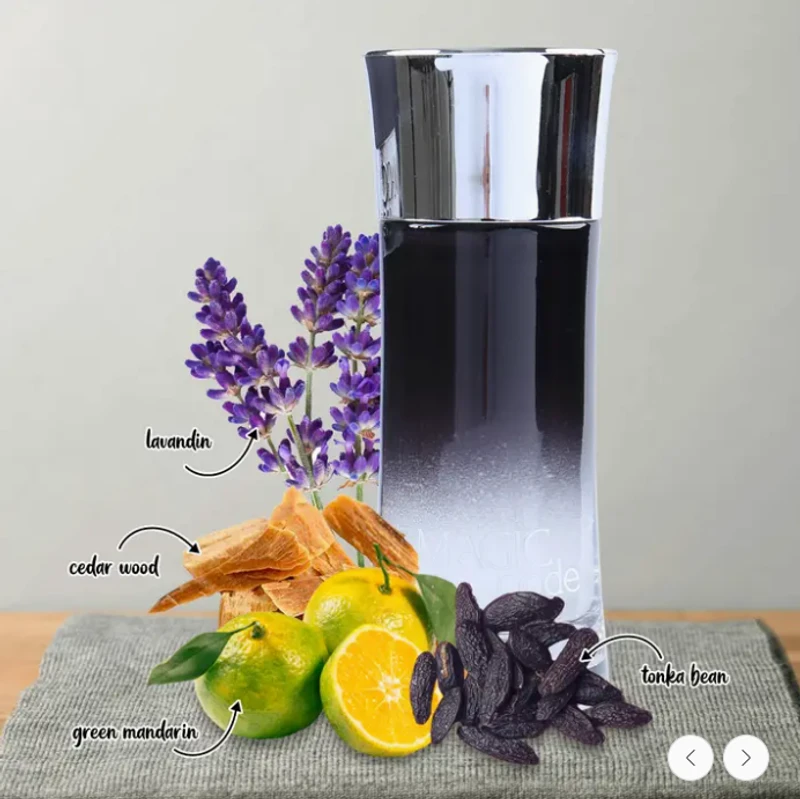
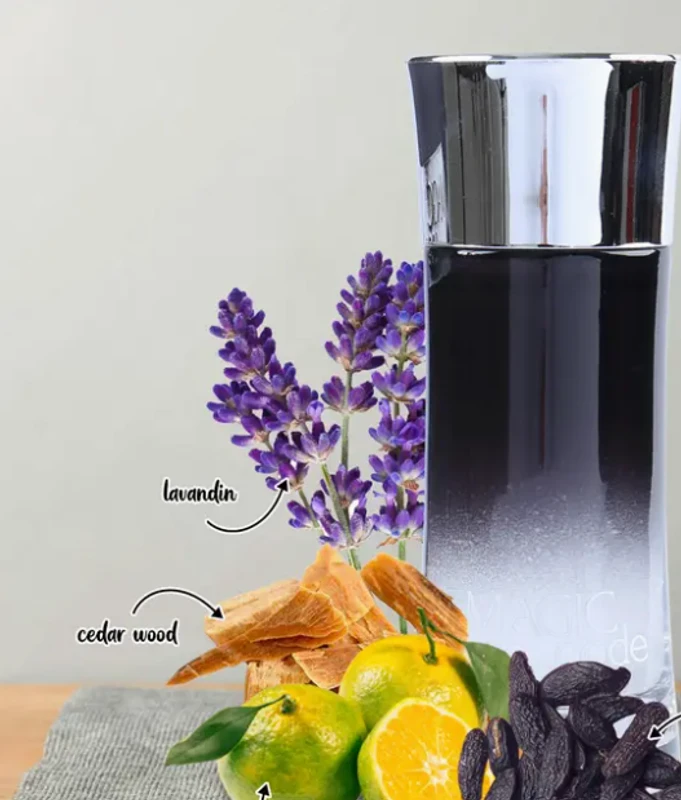
Update product images, fix arrows, adjust prices and image ordering
- Replaced 20+ product images with clean versions (no next-arrow overlay)
- Updated image order for several products (Reverie, Legende, Eau De Vivre, Imperial Oud, Investor Gold, Invincible Platinum, Adventure Club)
- Added new images to TG192 speaker, 380ml blender, Lazell Black Onyx, 365 Day spray, Invincible Black
- Removed unwanted images from Invincible Black and Lazell Black Onyx
- Updated prices: Taj Max Aqua Sport & Exotic Bliss → 12,000 XAF

diff --git a/src/data/categories.ts b/src/data/categories.ts
@@ -377,8 +377,8 @@ export const categories: Category[] = [
               { name: 'Infinity 3.3 oz EDT For Men', image: '/images/products/infinity-edt-men.webp', price: 6000, quantity: 6 },
               { name: 'Platinum 3.4 oz EDP For Men', image: '/images/products/platinum-edp-men.webp', price: 6000, quantity: 6 },
               { name: 'Savage 3.4 oz EDP For Men', image: '/images/products/savage-edp-men.webp', price: 6000, quantity: 6 },
-              { name: 'Taj Max Aqua Sport 3.4 oz Long-Lasting Perfume', image: '/images/products/taj-max-aqua-sport.webp', price: 10000, quantity: 6 },
-              { name: 'Taj Max Exotic Bliss 3.4 oz Long-Lasting Perfume', image: '/images/products/taj-max-exotic-bliss.webp', price: 10000, quantity: 6 },
+              { name: 'Taj Max Aqua Sport 3.4 oz Long-Lasting Perfume', image: '/images/products/taj-max-aqua-sport.webp', price: 12000, quantity: 6 },
+              { name: 'Taj Max Exotic Bliss 3.4 oz Long-Lasting Perfume', image: '/images/products/taj-max-exotic-bliss.webp', price: 12000, quantity: 6 },
               { name: 'Victory 3.3 oz EDT For Men', image: '/images/products/victory-edt-men.webp', price: 6000, quantity: 3 },
               { name: 'Hercules Paris 3.4 oz EDP For Men', image: '/images/products/hercules-paris-edp-men.webp', price: 6000, quantity: 6 },
               { name: 'Degree Men Black + White Ultraclear Deodorant', image: '/images/products/degree-men-black-white-ultraclear.webp', price: 3000, quantity: 15 },
@@ -389,20 +389,20 @@ export const categories: Category[] = [
               { name: "Men'S Extreme 3.4oz Eau De Parfum - Men Perfume Spray", images: ['/images/products/mens-extreme-edp-1.webp', '/images/products/mens-extreme-edp-2.webp'], price: 15000, quantity: 2 },
               { name: "Men'S Salvang 3.4oz Eau De Parfume", images: ['/images/products/mens-salvang-edp-1.webp', '/images/products/mens-salvang-edp-2.webp'], price: 15000, quantity: 2 },
               { name: 'Daspar De Homme Men Perfume with Pheromones', image: '/images/products/daspar-de-homme-pheromones-1.webp', price: 8000, quantity: 4 },
-              { name: 'Adventure Club Perfume For Men', images: ['/images/products/adventure-club-perfume-men-1.webp', '/images/products/adventure-club-perfume-men-2.webp', '/images/products/adventure-club-perfume-men-3.webp'], price: 8000, quantity: 3 },
+              { name: 'Adventure Club Perfume For Men', images: ['/images/products/adventure-club-perfume-men-3.webp', '/images/products/adventure-club-perfume-men-2.webp'], price: 8000, quantity: 3 },
               { name: 'Azure Vantage Aqua Spray Cologne Eau De Parfum For Men', images: ['/images/products/azure-vantage-cologne-men-1.webp', '/images/products/azure-vantage-cologne-men-2.webp', '/images/products/azure-vantage-cologne-men-3.webp'], price: 8000, quantity: 3 },
-              { name: 'Investor Gold Spray Cologne Eau De Parfum For Men', images: ['/images/products/investor-gold-cologne-men-1.webp', '/images/products/investor-gold-cologne-men-2.webp', '/images/products/investor-gold-cologne-men-3.webp', '/images/products/investor-gold-cologne-men-4.webp', '/images/products/investor-gold-cologne-men-5.webp'], price: 8000, quantity: 3 },
-              { name: 'Invincible Black Spray Cologne For Men EDP', images: ['/images/products/invincible-black-cologne-men-1.webp', '/images/products/invincible-black-cologne-men-2.webp'], price: 8000, quantity: 3 },
-              { name: 'Invincible Platinum Spray Cologne Eau De Toilette For Men', images: ['/images/products/invincible-platinum-cologne-men-1.webp', '/images/products/invincible-platinum-cologne-men-2.webp', '/images/products/invincible-platinum-cologne-men-3.webp'], price: 8000, quantity: 3 },
+              { name: 'Investor Gold Spray Cologne Eau De Parfum For Men', images: ['/images/products/investor-gold-cologne-men-5.webp', '/images/products/investor-gold-cologne-men-1.webp', '/images/products/investor-gold-cologne-men-2.webp', '/images/products/investor-gold-cologne-men-3.webp', '/images/products/investor-gold-cologne-men-4.webp'], price: 8000, quantity: 3 },
+              { name: 'Invincible Black Spray Cologne For Men EDP', images: ['/images/products/invincible-black-cologne-men-3.webp', '/images/products/invincible-black-cologne-men-2.webp'], price: 8000, quantity: 3 },
+              { name: 'Invincible Platinum Spray Cologne Eau De Toilette For Men', images: ['/images/products/invincible-platinum-cologne-men-1.webp', '/images/products/invincible-platinum-cologne-men-3.webp', '/images/products/invincible-platinum-cologne-men-2.webp'], price: 8000, quantity: 3 },
               { name: 'Magic Code Spray Cologne Eau De Toilette For Men', images: ['/images/products/magic-code-cologne-men-1.webp', '/images/products/magic-code-cologne-men-2.webp', '/images/products/magic-code-cologne-men-3.webp'], price: 8000, quantity: 3 },
               { name: 'Cologne Eau De Toilette For Men', images: ['/images/products/cologne-edt-men-1.webp', '/images/products/cologne-edt-men-2.webp', '/images/products/cologne-edt-men-3.webp', '/images/products/cologne-edt-men-4.webp'], price: 8000, quantity: 3 },
               { name: 'Victorious Heroes Spray Cologne Eau De Toilette For Men', images: ['/images/products/victorious-heroes-cologne-men-1.webp', '/images/products/victorious-heroes-cologne-men-2.webp', '/images/products/victorious-heroes-cologne-men-3.webp', '/images/products/victorious-heroes-cologne-men-4.webp'], price: 8000, quantity: 3 },
               { name: 'Bleu De Rivoli Eau De Parfum', images: ['/images/products/bleu-de-rivoli-edp-men-1.webp', '/images/products/bleu-de-rivoli-edp-men-2.webp', '/images/products/bleu-de-rivoli-edp-men-3.webp'], price: 18000, quantity: 2 },
               { name: 'Blue Intense Eau De Parfum', images: ['/images/products/blue-intense-edp-men-1.webp', '/images/products/blue-intense-edp-men-2.webp'], price: 18000, quantity: 2 },
-              { name: 'Eau De Vivre Eau De Parfum', images: ['/images/products/eau-de-vivre-edp-men-1.webp', '/images/products/eau-de-vivre-edp-men-2.webp', '/images/products/eau-de-vivre-edp-men-3.webp'], price: 18000, quantity: 2 },
-              { name: 'Imperial Oud Eau De Parfum', images: ['/images/products/imperial-oud-edp-men-1.webp', '/images/products/imperial-oud-edp-men-2.webp', '/images/products/imperial-oud-edp-men-3.webp'], price: 18000, quantity: 2 },
-              { name: 'Legende Intense Eau De Parfum', images: ['/images/products/legende-intense-edp-men-1.webp', '/images/products/legende-intense-edp-men-2.webp', '/images/products/legende-intense-edp-men-3.webp'], price: 18000, quantity: 2 },
-              { name: 'Reverie Pour Homme Eau De Parfum', images: ['/images/products/reverie-pour-homme-edp-men-1.webp', '/images/products/reverie-pour-homme-edp-men-2.webp', '/images/products/reverie-pour-homme-edp-men-3.webp'], price: 18000, quantity: 2 }
+              { name: 'Eau De Vivre Eau De Parfum', images: ['/images/products/eau-de-vivre-edp-men-2.webp', '/images/products/eau-de-vivre-edp-men-1.webp', '/images/products/eau-de-vivre-edp-men-3.webp'], price: 18000, quantity: 2 },
+              { name: 'Imperial Oud Eau De Parfum', images: ['/images/products/imperial-oud-edp-men-2.webp', '/images/products/imperial-oud-edp-men-1.webp', '/images/products/imperial-oud-edp-men-3.webp'], price: 18000, quantity: 2 },
+              { name: 'Legende Intense Eau De Parfum', images: ['/images/products/legende-intense-edp-men-2.webp', '/images/products/legende-intense-edp-men-1.webp', '/images/products/legende-intense-edp-men-3.webp'], price: 18000, quantity: 2 },
+              { name: 'Reverie Pour Homme Eau De Parfum', images: ['/images/products/reverie-pour-homme-edp-men-2.webp', '/images/products/reverie-pour-homme-edp-men-1.webp', '/images/products/reverie-pour-homme-edp-men-3.webp'], price: 18000, quantity: 2 }
             ]
           },
           {
@@ -429,8 +429,8 @@ export const categories: Category[] = [
               { name: 'Sexy Rose Pink Spray Perfume Eau De Parfum', images: ['/images/products/sexy-rose-pink-spray1.webp', '/images/products/sexy-rose-pink-spray2.webp', '/images/products/sexy-rose-pink-spray3.webp'], price: 10000, quantity: 3 },
               { name: 'Loveryblack Affinity At Midnight Pheromone Perfume (Unisex)', images: ['/images/products/loveryblack-at-midnight-unisex-1.webp', '/images/products/loveryblack-at-midnight-unisex-2.webp', '/images/products/loveryblack-at-midnight-unisex-3.webp', '/images/products/loveryblack-at-midnight-unisex-4.webp'], price: 15000, quantity: 2 },
               { name: 'Loveryblack Affinity Pure Passion Pheromone Perfume (Unisex)', images: ['/images/products/loveryblack-pure-passion-unisex-1.webp', '/images/products/loveryblack-pure-passion-unisex-2.webp', '/images/products/loveryblack-pure-passion-unisex-3.webp', '/images/products/loveryblack-pure-passion-unisex-4.webp'], price: 15000, quantity: 2 },
-              { name: 'Lazell Black Onyx Women EDP 3.4', images: ['/images/products/lazell-black-onyx-women-edp-1.webp', '/images/products/lazell-black-onyx-women-edp-2.webp'], price: 8000, quantity: 3 },
-              { name: '365 Day Spray Perfume Eau De Parfum For Women', images: ['/images/products/365-day-spray-perfume-women-1.webp', '/images/products/365-day-spray-perfume-women-2.webp'], price: 6500, quantity: 3 },
+              { name: 'Lazell Black Onyx Women EDP 3.4', images: ['/images/products/lazell-black-onyx-women-edp-1.webp', '/images/products/lazell-black-onyx-women-edp-3.webp'], price: 8000, quantity: 3 },
+              { name: '365 Day Spray Perfume Eau De Parfum For Women', images: ['/images/products/365-day-spray-perfume-women-1.webp', '/images/products/365-day-spray-perfume-women-2.webp', '/images/products/365-day-spray-perfume-women-3.webp'], price: 6500, quantity: 3 },
               { name: 'Harmonie De Jour Eau De Parfum', images: ['/images/products/harmonie-de-jour-edp-women-1.webp', '/images/products/harmonie-de-jour-edp-women-2.webp', '/images/products/harmonie-de-jour-edp-women-3.webp'], price: 18000, quantity: 2 }
             ]
           }
